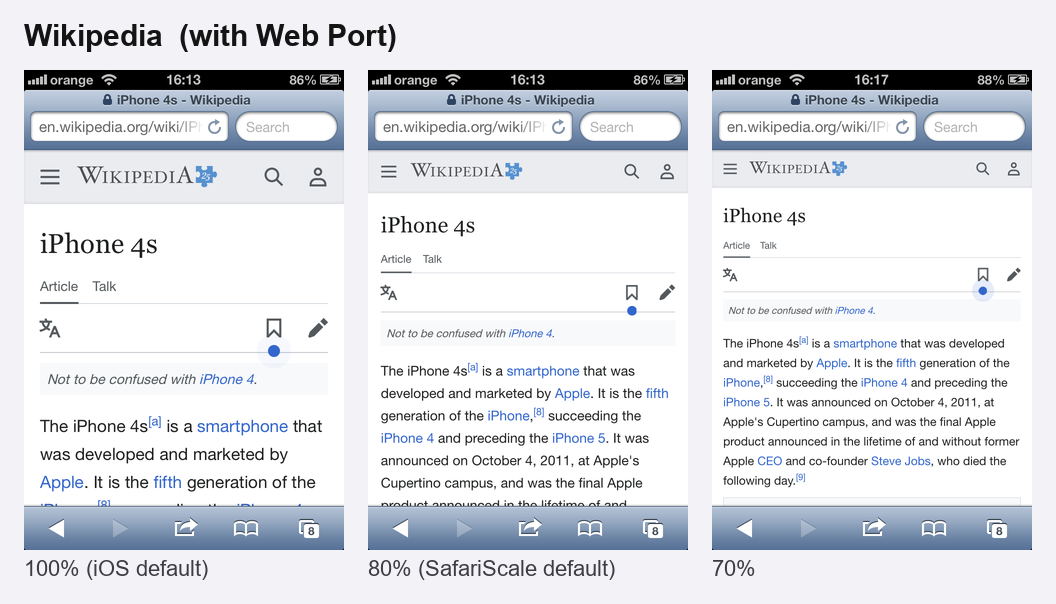
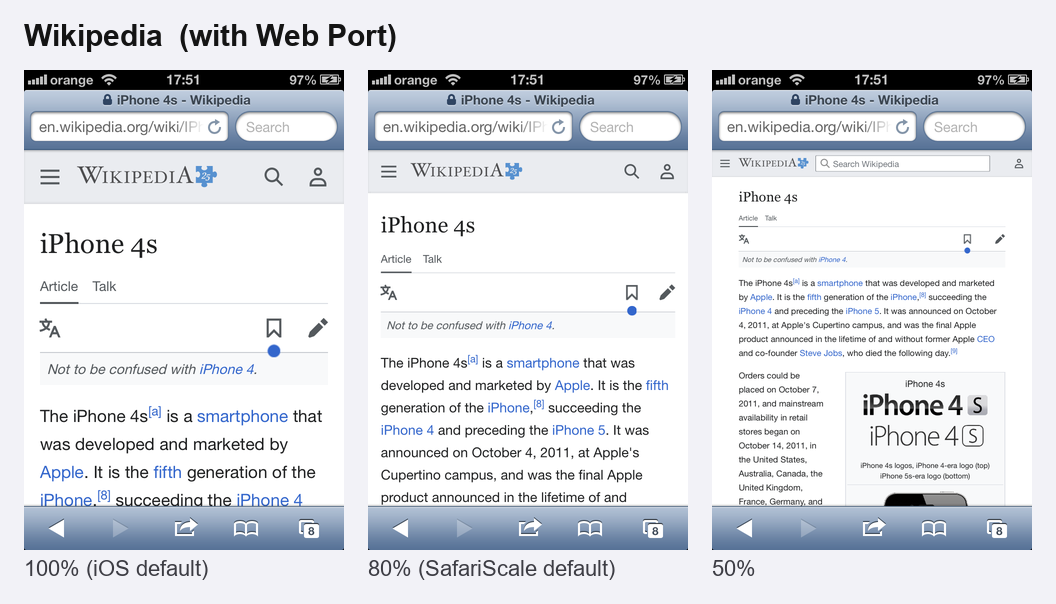
README: new screenshots at 100/80/50% (same time and battery), 30-100% Page Size, shorter opening line

diff --git a/README.md b/README.md
@@ -4,7 +4,7 @@
 
 **Makes web pages in Safari smaller on iOS 6.**
 
-Modern websites are made for phones that are much bigger than an iPhone 4S. On a 3.5-inch screen they look cramped: big text, huge buttons and very little on screen at once. SafariScale shows pages at 80% of their size by default, or anywhere from 50% to 100%, so more fits on the screen.
+Modern websites are made for phones that are much bigger. On a 3.5-inch screen they look cramped: big text, huge buttons and very little on screen at once. SafariScale shows pages at 80% of their size by default, or anywhere from 30% to 100%, so more fits on the screen.
 
 It works like zooming out in a desktop browser. The page gets a wider layout and is shown smaller. So nothing is cut off or broken: links, forms, menus, pinch zoom and rotation all keep working.
 
@@ -14,7 +14,7 @@ This is an unofficial jailbreak tweak. It is not affiliated with or endorsed by 
 
 ## Features
 
-- **Page Size:** 50%, 60%, 70%, 80% (default), 90% or 100% (the normal iOS size).
+- **Page Size:** 30% to 100% in steps of 10%: 80% is the default, 100% is the normal iOS size.
 - **Only pages made for phones change:**
   - Sites that size themselves to the screen (almost every modern site) are shown smaller.
   - Desktop sites with no mobile layout and pages with a fixed width are left alone, because Safari already fits those to the screen.
@@ -26,15 +26,15 @@ This is an unofficial jailbreak tweak. It is not affiliated with or endorsed by 
 
 ## Screenshots
 
-iPhone 4S, iOS 6.1.3, with Web Port. Each site at 100% (iOS default), 80% (SafariScale default) and 70%.
+iPhone 4S, iOS 6.1.3, with Web Port. Each site at 100% (iOS default), 80% (SafariScale default) and 50%. Google is the English version of Google Japan.
 
-<img src="screenshots/google.png" alt="Google at 100%, 80% and 70%: at 100% the top bar doesn't fit and Images wraps under All; at 80% and 70% it fits and the trending searches show" width="760">
+<img src="screenshots/google.png" alt="Google search for iPhone 4S at 100%, 80% and 50%: more of the tabs and results fit as the page gets smaller" width="760">
 
-<img src="screenshots/youtube.png" alt="YouTube search results at 100%, 80% and 70%: smaller thumbnails and text, more results on screen" width="760">
+<img src="screenshots/youtube.png" alt="The same YouTube search results at 100%, 80% and 50%: smaller thumbnails and text, more results on screen" width="760">
 
-<img src="screenshots/wikipedia.png" alt="Wikipedia article at 100%, 80% and 70%: more of the article on each screen" width="760">
+<img src="screenshots/wikipedia.png" alt="Wikipedia article at 100%, 80% and 50%: more of the article on each screen" width="760">
 
-<img src="screenshots/hn.png" alt="Hacker News at 100%, 80% and 70%: about 3, 6 and 8 stories on screen" width="760">
+<img src="screenshots/hn.png" alt="Hacker News at 100%, 80% and 50%: about 3, 6 and 14 stories on screen" width="760">
 
 ## Compatibility
 
@@ -61,7 +61,7 @@ Requires Cydia Substrate (`mobilesubstrate`) and PreferenceLoader. Both are on a
 Open **Settings > Safari Scale**:
 
 - **Enabled**: turns the tweak on or off.
-- **Page Size**: 50% to 100% in steps of 10%. 80% is the default.
+- **Page Size**: 30% to 100% in steps of 10%. 80% is the default.
 
 <img src="screenshots/settings.png" alt="Safari Scale settings page: Enabled switch and Page Size 80%" width="320">
 
